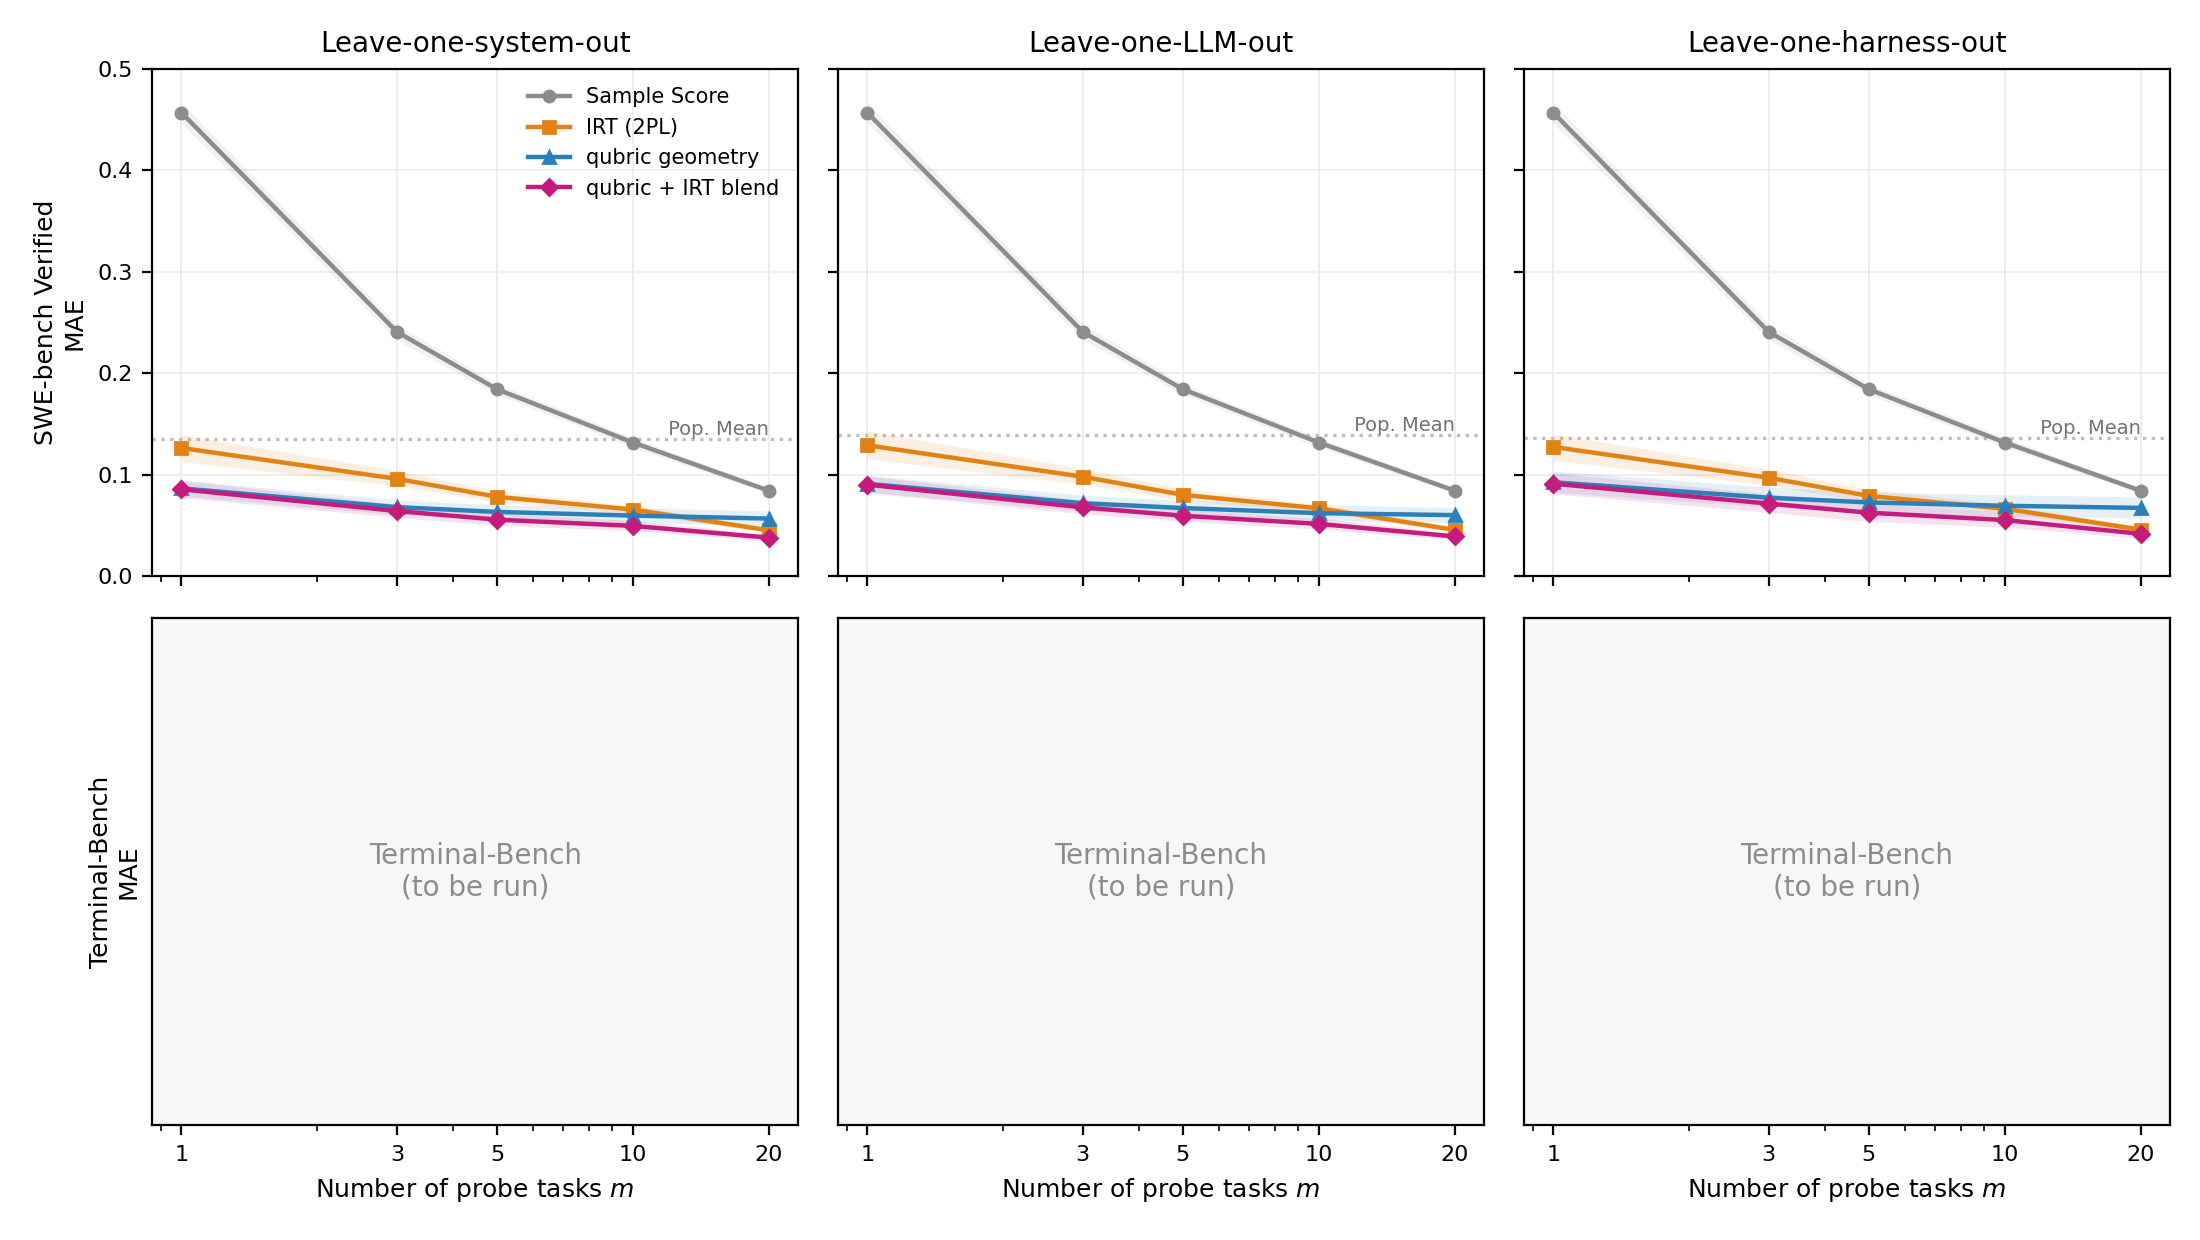
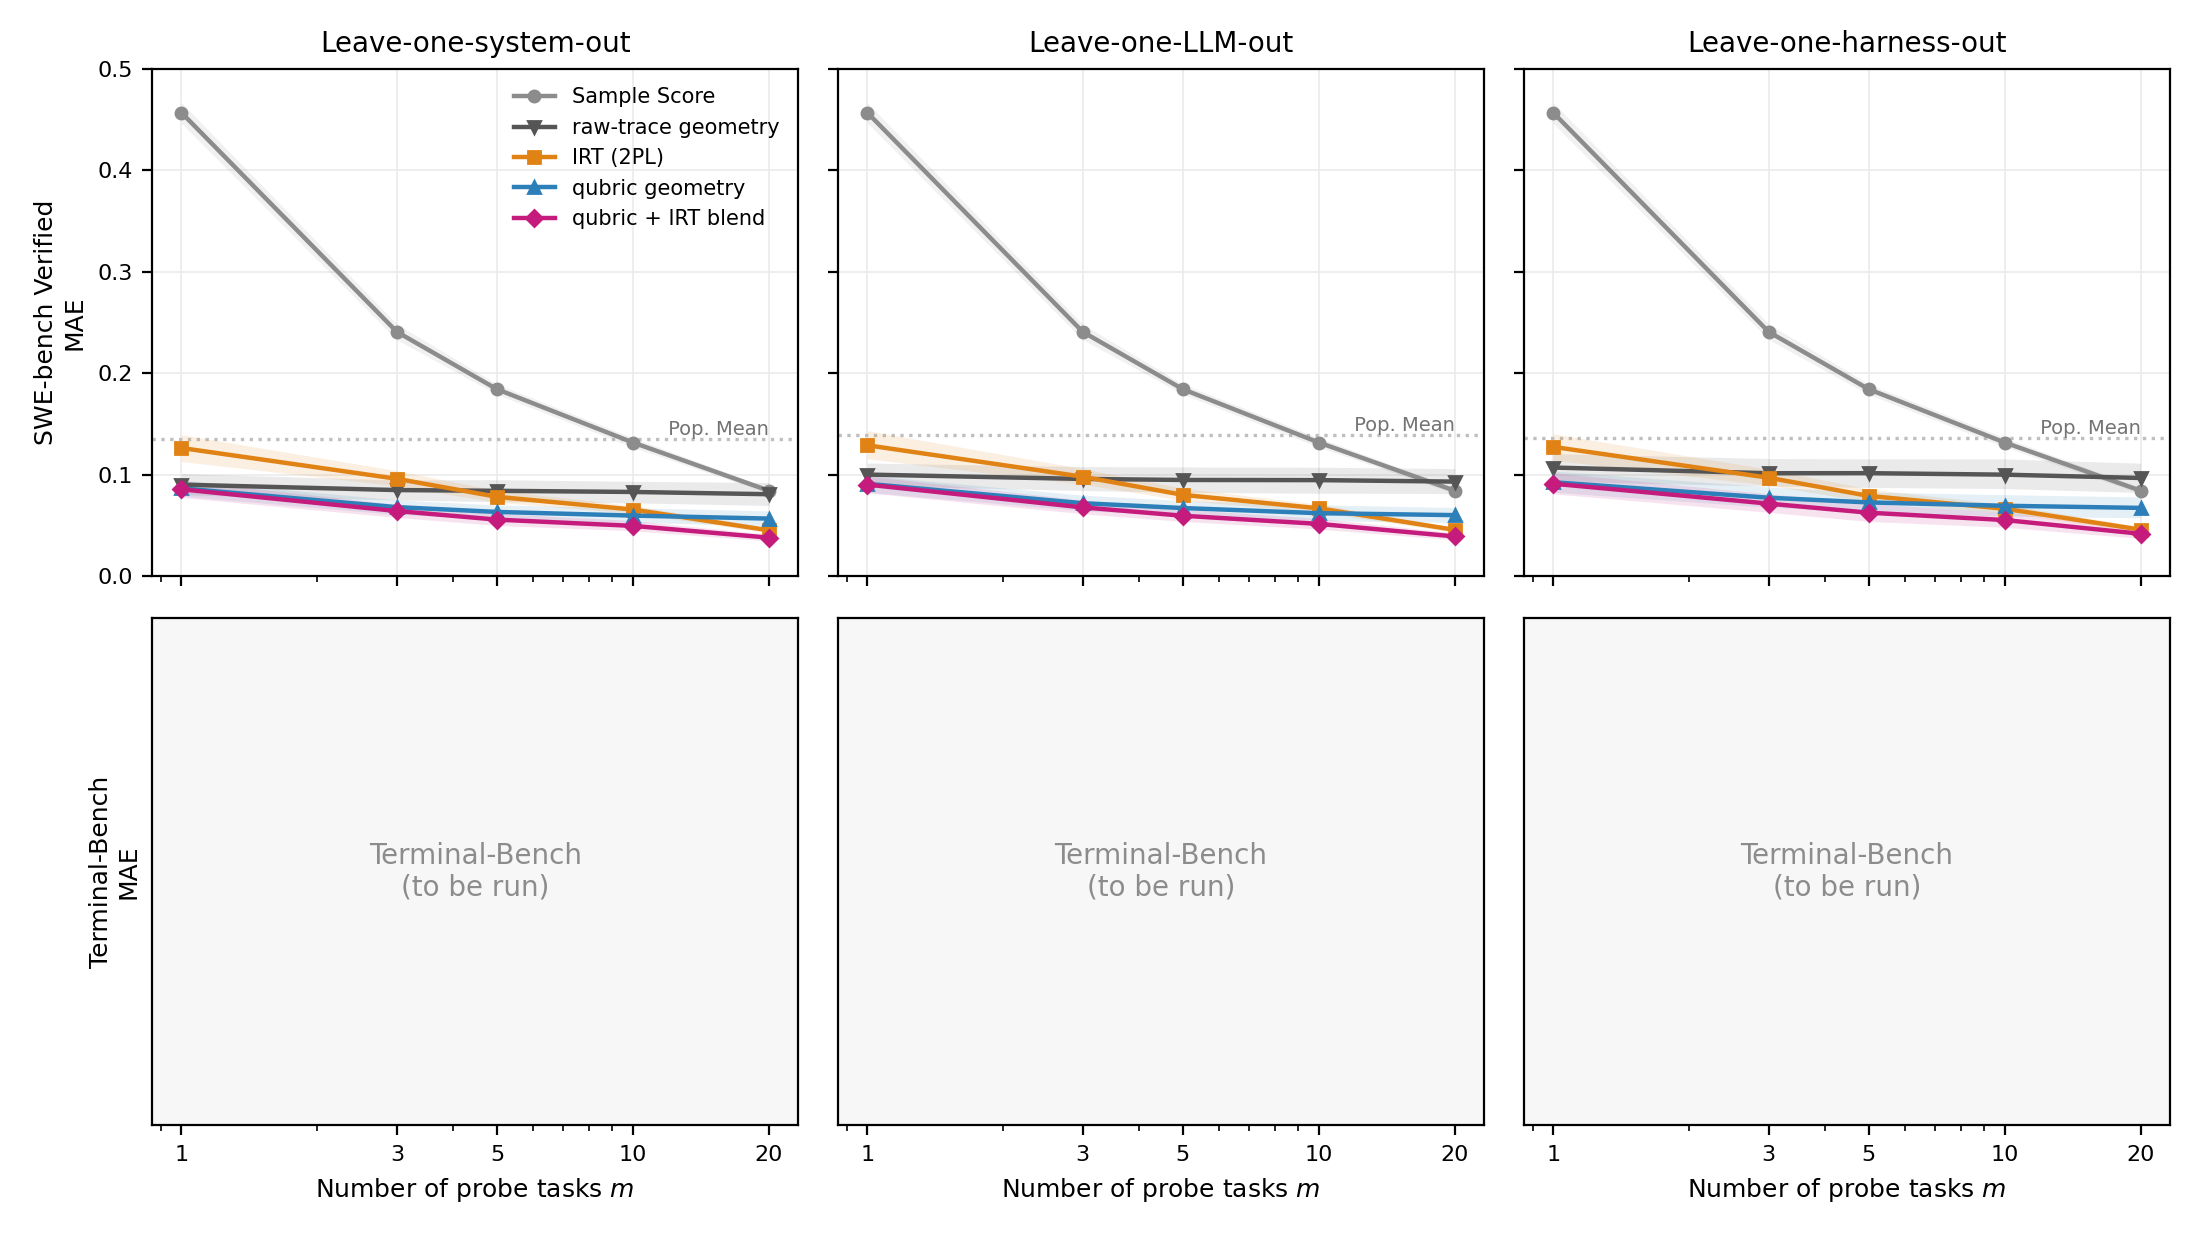
fig2: add raw-trace geometry curve per protocol
Raw (head+tail 8K tok, text-embedding-3-small) is flat in m in every
protocol and degrades as protocols tighten: LOSO .090->.081, LOLO
.100->.093, LOHO .107->.097. Qubric moves <= .006 across columns.

Claude-Session: https://claude.ai/code/session_01RGusFFXzoPTkSKgzzDLjNv

diff --git a/scripts/fig_protocols.py b/scripts/fig_protocols.py
@@ -148,10 +148,86 @@ def main_compute():
     print(f'wrote {OUT_JSON}')
 
 
+def main_raw():
+    """Add a raw-trace-embedding geometry curve per protocol (the
+    off-the-shelf null hypothesis): head+tail 8K-token slices of the
+    unpruned render, text-embedding-3-small, median-center + L2 -- same
+    kNN/kernel machinery and the same probe draws as main_compute."""
+    systems, q100, y, B, allowed_llm = load_panel(panel='data/judge/q100.json')
+    M, Q = B.shape
+    masks = build_masks(systems, allowed_llm)
+    HT = np.load('data/judge/q100_raw_emb_openai_small.npz')['HT'] \
+        .reshape(M, Q, -1)
+    Xc = HT - np.median(HT, axis=0, keepdims=True)
+    Xc /= np.maximum(np.linalg.norm(Xc, axis=-1, keepdims=True), 1e-9)
+    Xc = Xc.astype(np.float32)
+
+    z = np.load('data/leaderboard/query_vecs_64.npz', allow_pickle=True)
+    ids = [str(x) for x in z['ids']]
+    V = np.asarray(z['vecs'], np.float32)[[ids.index(q) for q in q100]]
+    D2q = ((V[:, None] - V[None]) ** 2).sum(-1)
+    med = np.median(D2q)
+    kern = {}
+    for s_ in SIGS:
+        KQ = np.exp(-D2q / (2 * med / s_))
+        W = np.einsum('qp,jpd->jqd', KQ, Xc)
+        kern[s_] = (KQ, W, np.einsum('jqd,jqd->j', Xc, W) / KQ.sum())
+
+    def pkps_D(cols, s_):
+        KQ, W, Arr = kern[s_]
+        A_tr = np.einsum('iqd,jqd->ij', Xc[:, cols], W[:, cols]) / KQ[cols].sum()
+        KQc = KQ[np.ix_(cols, cols)]
+        Wc = np.einsum('qp,jpd->jqd', KQc, Xc[:, cols])
+        Att = np.einsum('iqd,iqd->i', Xc[:, cols], Wc) / KQc.sum()
+        return np.sqrt(np.maximum(Att[:, None] + Arr[None] - 2 * A_tr, 0))
+
+    rng_b = np.random.default_rng(1)
+
+    def ci(e):
+        v = np.array([e[rng_b.integers(0, M, M)].mean() for _ in range(2000)])
+        return [float(np.percentile(v, 2.5)), float(np.percentile(v, 97.5))]
+
+    rng = np.random.default_rng(0)
+    draws = {m: [rng.choice(Q, m, replace=False) for _ in range(B_DRAWS)]
+             for m in MS}
+
+    out = json.load(open(OUT_JSON))
+    for name, allowed in masks.items():
+        print(f'=== raw geometry: {name} ===')
+        for m in MS:
+            acc = np.zeros(M)
+            for cols in draws[m]:
+                cand = {}
+                for s_ in SIGS:
+                    D = pkps_D(cols, s_)
+                    for k in KS:
+                        errs, tgt = [], np.zeros(M)
+                        for i in range(M):
+                            refs = np.where(allowed[i])[0]
+                            Dref = D[:, refs].copy()
+                            for r, j in enumerate(refs):
+                                Dref[j, r] = np.inf
+                            Dref[i] = D[i, refs]
+                            nn = np.argsort(Dref, 1)[:, :k]
+                            w = 1 / (np.take_along_axis(Dref, nn, 1) + 1e-12)
+                            pred = (w * y[refs][nn]).sum(1) / w.sum(1)
+                            errs.append(np.abs(pred[refs] - y[refs]).mean())
+                            tgt[i] = pred[i]
+                        cand[(s_, k)] = (float(np.mean(errs)), tgt)
+                tgt = min(cand.values(), key=lambda v: v[0])[1]
+                acc += np.abs(tgt - y) / B_DRAWS
+            out['protocols'][name]['by_m'][str(m)]['raw'] = dict(
+                mae=float(acc.mean()), ci=ci(acc))
+            print(m, round(acc.mean(), 4))
+        json.dump(out, open(OUT_JSON, 'w'), indent=2)
+    print(f'wrote {OUT_JSON}')
+
+
 COLS = [('system', 'Leave-one-system-out'),
         ('llm', 'Leave-one-LLM-out'),
         ('harness', 'Leave-one-harness-out')]
 SERIES = [('sample', 'Sample Score', '#8c8c8c', 'o'),
+          ('raw', 'raw-trace geometry', '#555555', 'v'),
           ('irt', 'IRT (2PL)', '#e08214', 's'),
           ('geom', 'qubric geometry', '#2c7fb8', '^'),
           ('blend', 'qubric + IRT blend', '#c51b7d', 'D')]
@@ -178,6 +254,8 @@ def main_render():
         ax.text(ms[-1], pop, ' Pop. Mean', fontsize=7, color='.45',
                 va='bottom', ha='right')
         for name, label, color, marker in SERIES:
+            if name not in p['by_m'][str(ms[0])]:
+                continue
             mae = [p['by_m'][str(m)][name]['mae'] for m in ms]
             lo = [p['by_m'][str(m)][name]['ci'][0] for m in ms]
             hi = [p['by_m'][str(m)][name]['ci'][1] for m in ms]
@@ -215,5 +293,7 @@ if __name__ == '__main__':
     stage = sys.argv[1] if len(sys.argv) > 1 else 'all'
     if stage in ('compute', 'all'):
         main_compute()
+    if stage in ('raw', 'all'):
+        main_raw()
     if stage in ('render', 'all'):
         main_render()
